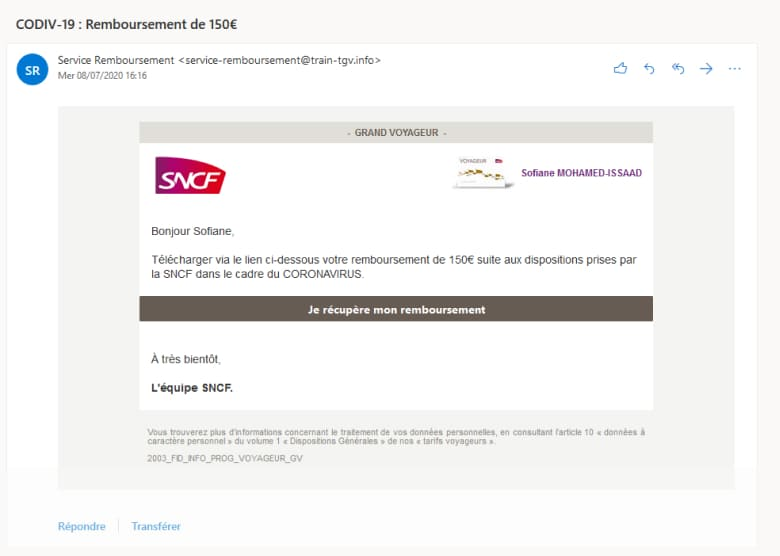
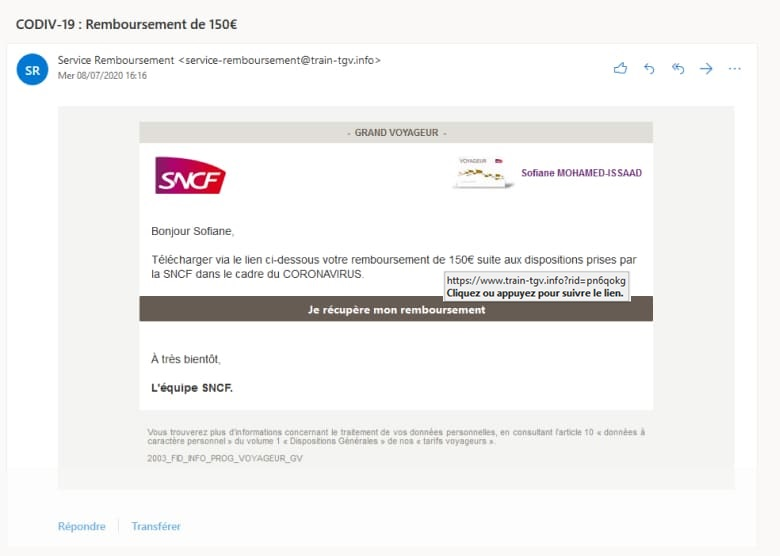
mail 03 ok et refonte du template générale suiste à modification UX

Changed region(s): [[0.5538, 0.4892, 0.8308, 0.5504]]

diff --git a/src/components/Campaign/Mail03.vue b/src/components/Campaign/Mail03.vue
@@ -1,8 +1,17 @@
 <template>
   <div>
     <div class="wrapper--img">
-      <img src="@/assets/images/campaign/mail03.jpg" alt="" srcset="" />
-      <Tooltip infoOverlay="overlay-1" positionSpot="position-1">
+      <img
+        class="img-phishing"
+        src="@/assets/images/campaign/mail03.jpg"
+        alt=""
+        srcset=""
+      />
+      <Tooltip
+        infoOverlay="overlay-1"
+        positionSpot="position-1"
+        spot-darken="true"
+      >
         <template v-slot:textinfo>
           L’adresse d’envoi et l’URL de redirection sont cohérentes cependant on
           remarque qu’il s’agit d’un domaine en .info. Les services légitimes
@@ -12,19 +21,28 @@
           exemple (car plutôt plausible), cela doit attirer votre attention
         </template>
       </Tooltip>
-      <Tooltip infoOverlay="overlay-2" positionSpot="position-2">
+      <Tooltip
+        infoOverlay="overlay-2"
+        positionSpot="position-2"
+        spot-darken="true"
+      >
         <template v-slot:textinfo>
-          Un principe, général, méfiez-vous des gains financiers &laquo;trop faciles&raquo;.
-          A minima l’objectif est de récupérer votre adresse mail afin de vous
-          envoyer des publicités. Qui plus est sur des sujets accrocheurs en
-          lien avec l’actualité (contexte sanitaire, politique, soldes, périodes
-          particulières..).
+          Un principe, général, méfiez-vous des gains financiers &laquo;trop
+          faciles&raquo;. A minima l’objectif est de récupérer votre adresse
+          mail afin de vous envoyer des publicités. Qui plus est sur des sujets
+          accrocheurs en lien avec l’actualité (contexte sanitaire, politique,
+          soldes, périodes particulières..).
         </template>
       </Tooltip>
-      <Tooltip infoOverlay="overlay-3" positionSpot="position-3">
+      <Tooltip
+        infoOverlay="overlay-3"
+        positionSpot="position-3"
+        spot-darken="true"
+      >
         <template v-slot:textinfo>
-          Généralement lors de remboursements, les dispositions d’applications sont précisées dans les mails. Ici aucune information sur les dispositions en questions.
-
+          Généralement lors de remboursements, les dispositions d’applications
+          sont précisées dans les mails. Ici aucune information sur les
+          dispositions en questions.
         </template>
       </Tooltip>
     </div>
@@ -42,7 +60,7 @@ export default {
 <style lang="scss">
 .position-1 {
   top: 6.8rem;
-  left: 33rem;
+  left: 29rem;
 }
 .position-2 {
   top: 3rem;
@@ -63,6 +81,12 @@ export default {
     48.82% 8.5%,
     48.82% 12.74%,
     23.29% 12.85%,
+    23.29% 54.07%,
+    56.2% 54.07%,
+    56.2% 48.4%,
+    81.4% 48.4%,
+    81.4% 54.07%,
+    23.29% 54.07%,
     23.29% 100%,
     100% 100%,
     100% 0%
@@ -84,7 +108,18 @@ export default {
   );
 }
 .overlay-3 {
-  clip-path: polygon(0% 0%, 0% 100%, 61.62% 99.64%, 61.12% 44.00%, 82.41% 44%, 82.41% 48.24%, 61.11% 48.35%, 61.63% 99.64%, 100% 100%, 100% 0%);
+  clip-path: polygon(
+    0% 0%,
+    0% 100%,
+    61.62% 99.64%,
+    61.12% 44%,
+    82.41% 44%,
+    82.41% 48.24%,
+    61.11% 48.35%,
+    61.63% 99.64%,
+    100% 100%,
+    100% 0%
+  );
 }
 span[class^="overlay"] {
   width: 100%;

diff --git a/src/scss/campaign/_layout.scss b/src/scss/campaign/_layout.scss
@@ -60,7 +60,7 @@ body {
         display: block;
         border-radius:5px;
         border: 1px solid transparent;
-        height: 100%;
+        height: 99.6%;
         top: 0;
         position: absolute;
         background: rgba(0, 0, 0, 0.5);
